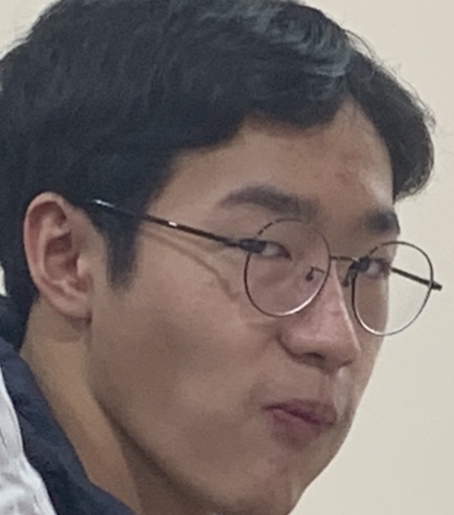
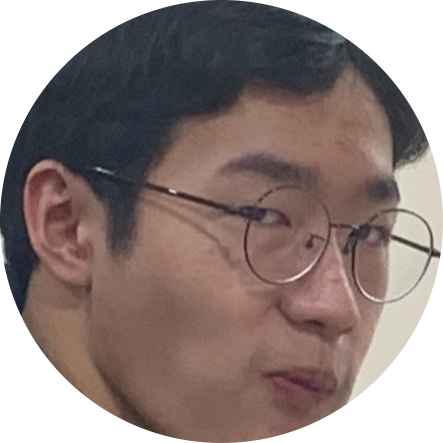
Update new version of index.html and IMG_7776.png

diff --git a/index.html b/index.html
@@ -2,11 +2,11 @@
 <html>
     <head>
         <meta charset="utf-8">
-        <title>work_1118</title>
+        <title>Home Page</title>
     </head>
     <body>
         <header>
-            <h1>無標題文件</h1>
+            <h1>111216003 涂家瀚</h1>
             <nav>
                 <a href="#about">關於我</a>
                 <a href="#experience">經歷</a>
@@ -14,6 +14,7 @@
                 <a href="#audio">音樂</a>
                 <a href="#video">影片</a>
                 <a href="#picture">圖片</a>
+                <a href="#more">更多資訊</a>
             </nav>
         </header>
 
@@ -21,6 +22,7 @@
             <aside style="width: 30%; float: right;">
                 <blockquote>
                     <h3>Tips</h3>
+                    <p>暫無內容</p>
                 </blockquote>
             </aside>
 
@@ -31,8 +33,11 @@
                 <section>
                     <table cellspacing="20">
                         <tr>
-                            <td><img src="IMG_7776.png" width="30%"></td>
-                            <td>鄙人不才在下本人之玉照一枚</td>
+                            <td><img src="IMG_7776.png" width="50%" alt="bighead"></td>
+                            <td>
+                                <strong><a href="https://www.ntue.edu.tw">國立台北教育大學</a></strong> 學生<br>
+                                (鄙人不才在下本人之玉照一枚)
+                            </td>
                         </tr>
                     </table>
                     <p>
@@ -60,11 +65,11 @@
                         <tbody>
                             <tr>
                                 <td>2020-2023</td>
-                                <td>鬆糕</td>
+                                <td>台北市某公立高中</td>
                             </tr>
                             <tr>
                                 <td>2023-</td>
-                                <td>國北</td>
+                                <td>國立台北教育大學</td>
                             </tr>
                         </tbody>
                     </table>
@@ -76,6 +81,10 @@
                     <h3>技能</h3>
                     <table>
                         <tr>
+                            <td>C++</td>
+                            <td>⭐⭐⭐⭐</td>
+                        </tr>
+                        <tr>
                             <td>睡覺</td>
                             <td>⭐⭐⭐⭐⭐</td>
                         </tr>
@@ -83,26 +92,31 @@
                 </header>
             </article>
 
-            <section id="audio">
+            <article id="audio">
                 <h3>音樂</h3>
                 <audio controls>
                     <source src="CreatedByAIVA.mp3" type="audio/mp3">
                 </audio>
-            </section>
+            </article>
 
-            <section id="video">
+            <article id="video">
                 <p>
                     <h3>影片</h3>
                     <iframe width="560" height="315" src="https://www.youtube.com/embed/a7b2L6Mcc-4?si=RwEt4DZdPImzunZ7" title="YouTube video player" frameborder="0" allow="accelerometer; autoplay; clipboard-write; encrypted-media; gyroscope; picture-in-picture; web-share" referrerpolicy="strict-origin-when-cross-origin" allowfullscreen></iframe>
                 </p>
-            </section>
+            </article>
 
-            <section id="picture">
+            <article id="picture">
                 <h3>圖片</h3>
-                <img src="CreatedByFirefly.jpg" alt="a motorcyle ride with a car">
-                <figcaption>機車與汽車併行</figcaption>
-                
-            </section>
+                <figure>
+                    <img src="CreatedByFirefly.jpg" alt="a motorcyle ride with a car">
+                    <figcaption>機車與汽車在公路上並馳</figcaption>
+                </figure>
+            </article>
+
+            <article id="more">
+                <h3>更多資訊</h3>
+            </article>
 
             <details>
                 <summary>查看提示</summary>
